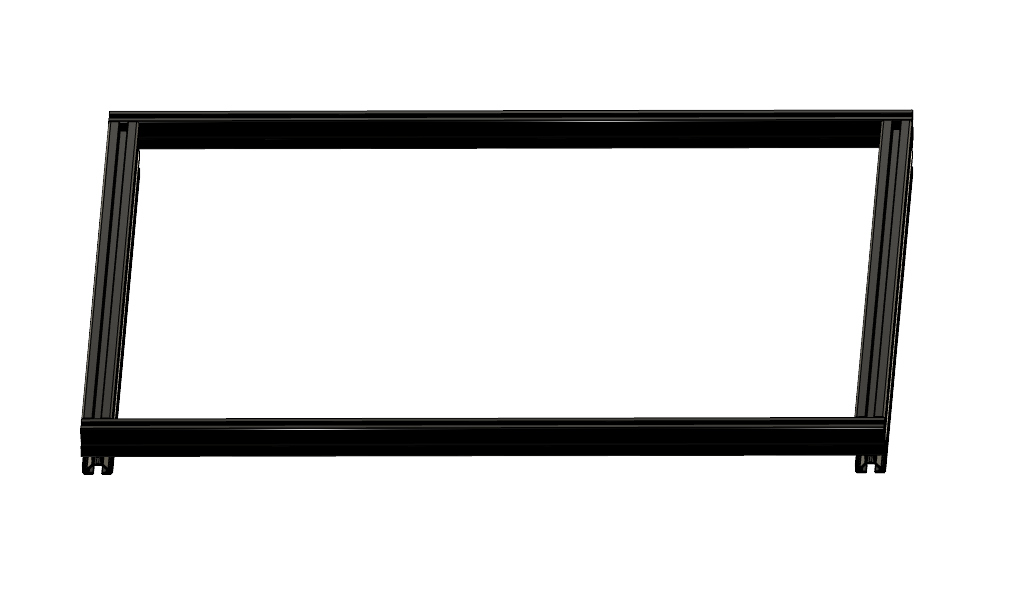
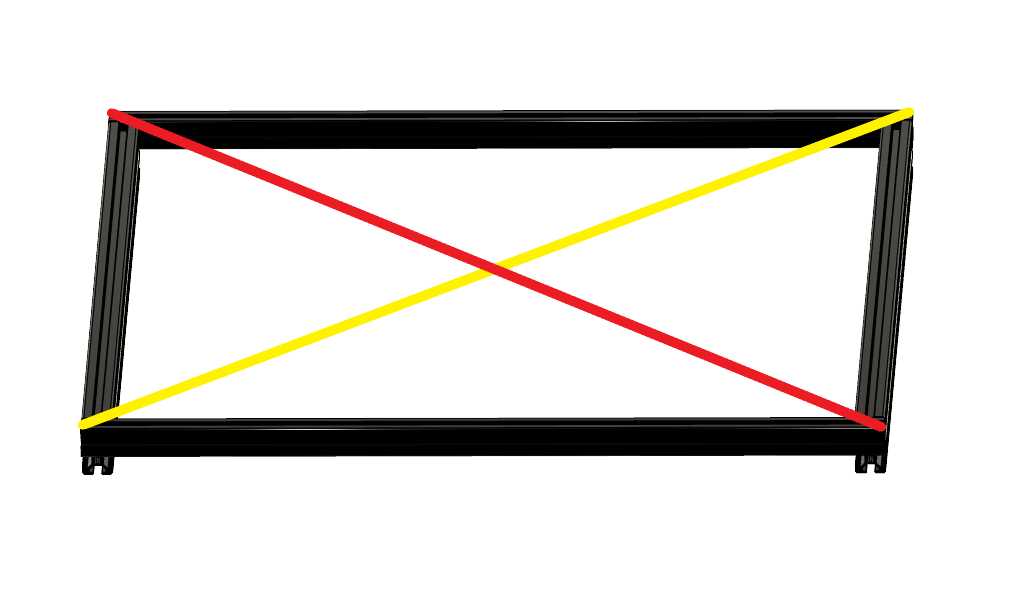
frame

diff --git a/docs/vz330_mellow/frame.md b/docs/vz330_mellow/frame.md
@@ -114,7 +114,7 @@ TODO put assembled gantry on frame
 
 | | |
 |-|-|
-| ![Mount](../assets/images/manual/vz330_mellow/frame/step7.png) | 1) Meassure from corner to corner <br> 2) The distance should be the same <br> 3) Do this for all side's of the printer |
+| ![Mount](../assets/images/manual/vz330_mellow/frame/step7.png) | 1) Meassure from corner to corner ( yellow and red line ) <br> 2) The distance should be the same for the red and the yellow line. <br> 3) Do this for all side's of the printer |
 
 <br>
 <br>
@@ -126,7 +126,7 @@ TODO put assembled gantry on frame
 
 | | |
 |-|-|
-| ![Mount](../assets/images/manual/vz330_mellow/frame/step8_part1.png) | 1) 2x frame bracers <br> 2) 4 x M4xXXmm <br> 3) 4 x M4 t-nut <br> 4) Insert screws and add t-nut |
+| ![Mount](../assets/images/manual/vz330_mellow/frame/step8_part1.png) | 1) 2x frame bracers <br> 2) 4 x M4xXXmm <br> 3) 4 x M4 t-nut <br> 4) Insert screws and add t-nut for both parts |
 | ![Mount](../assets/images/manual/vz330_mellow/frame/step8_part2.png) | 1) Attach frame bracers to the frame in the front left and right
 
 <br>
